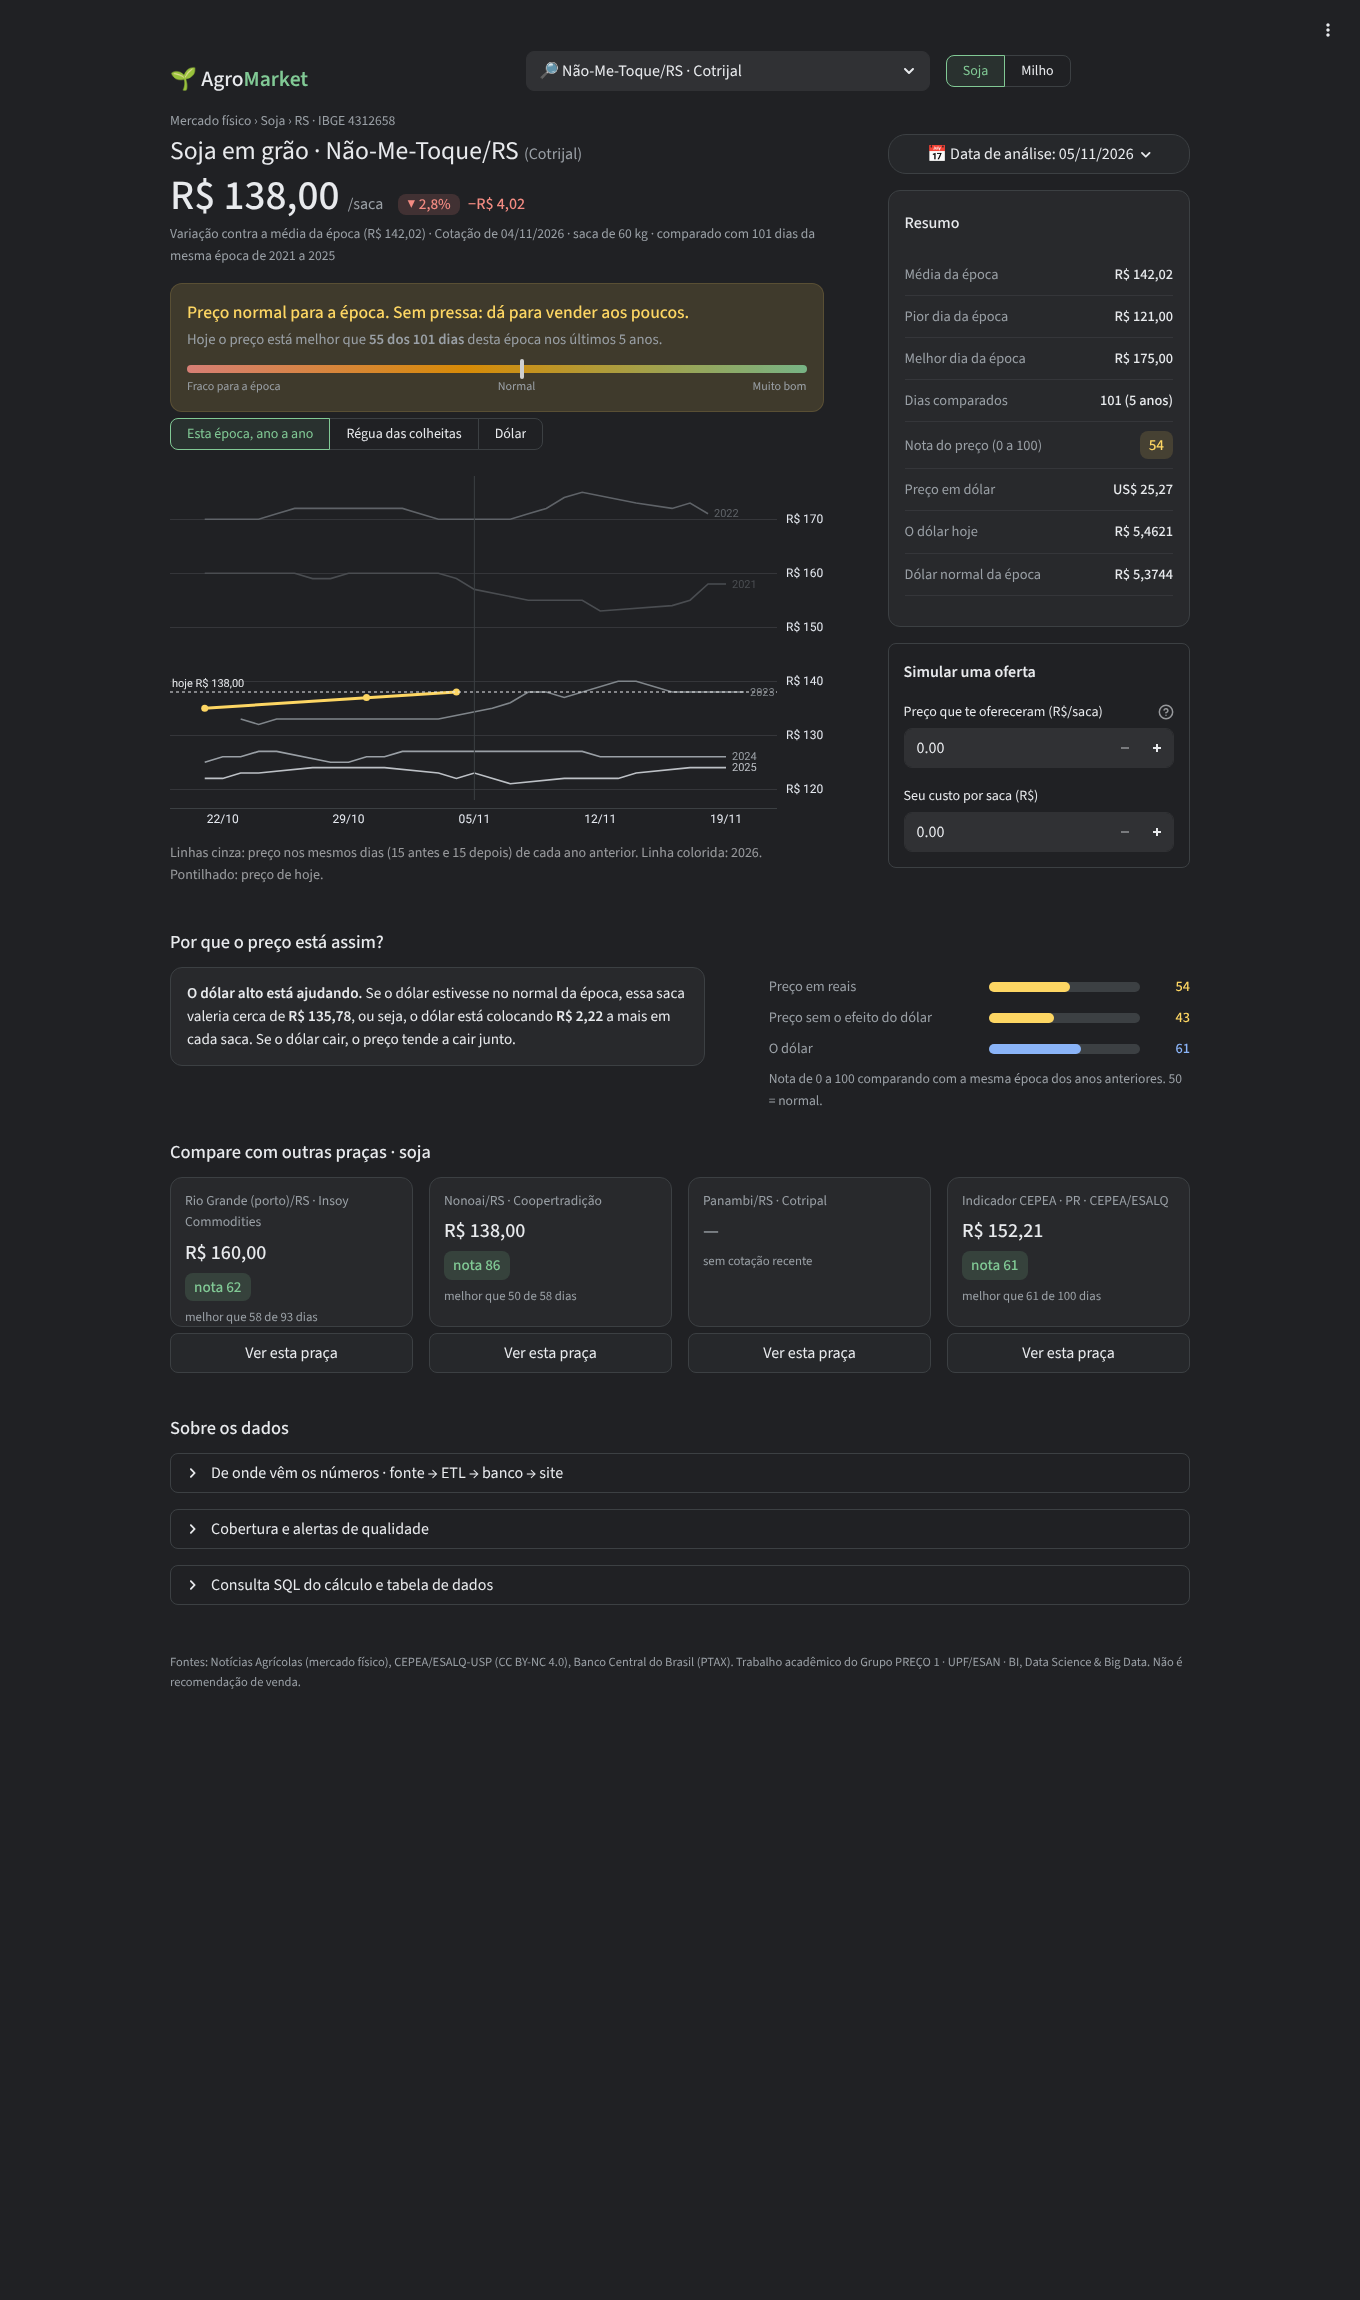
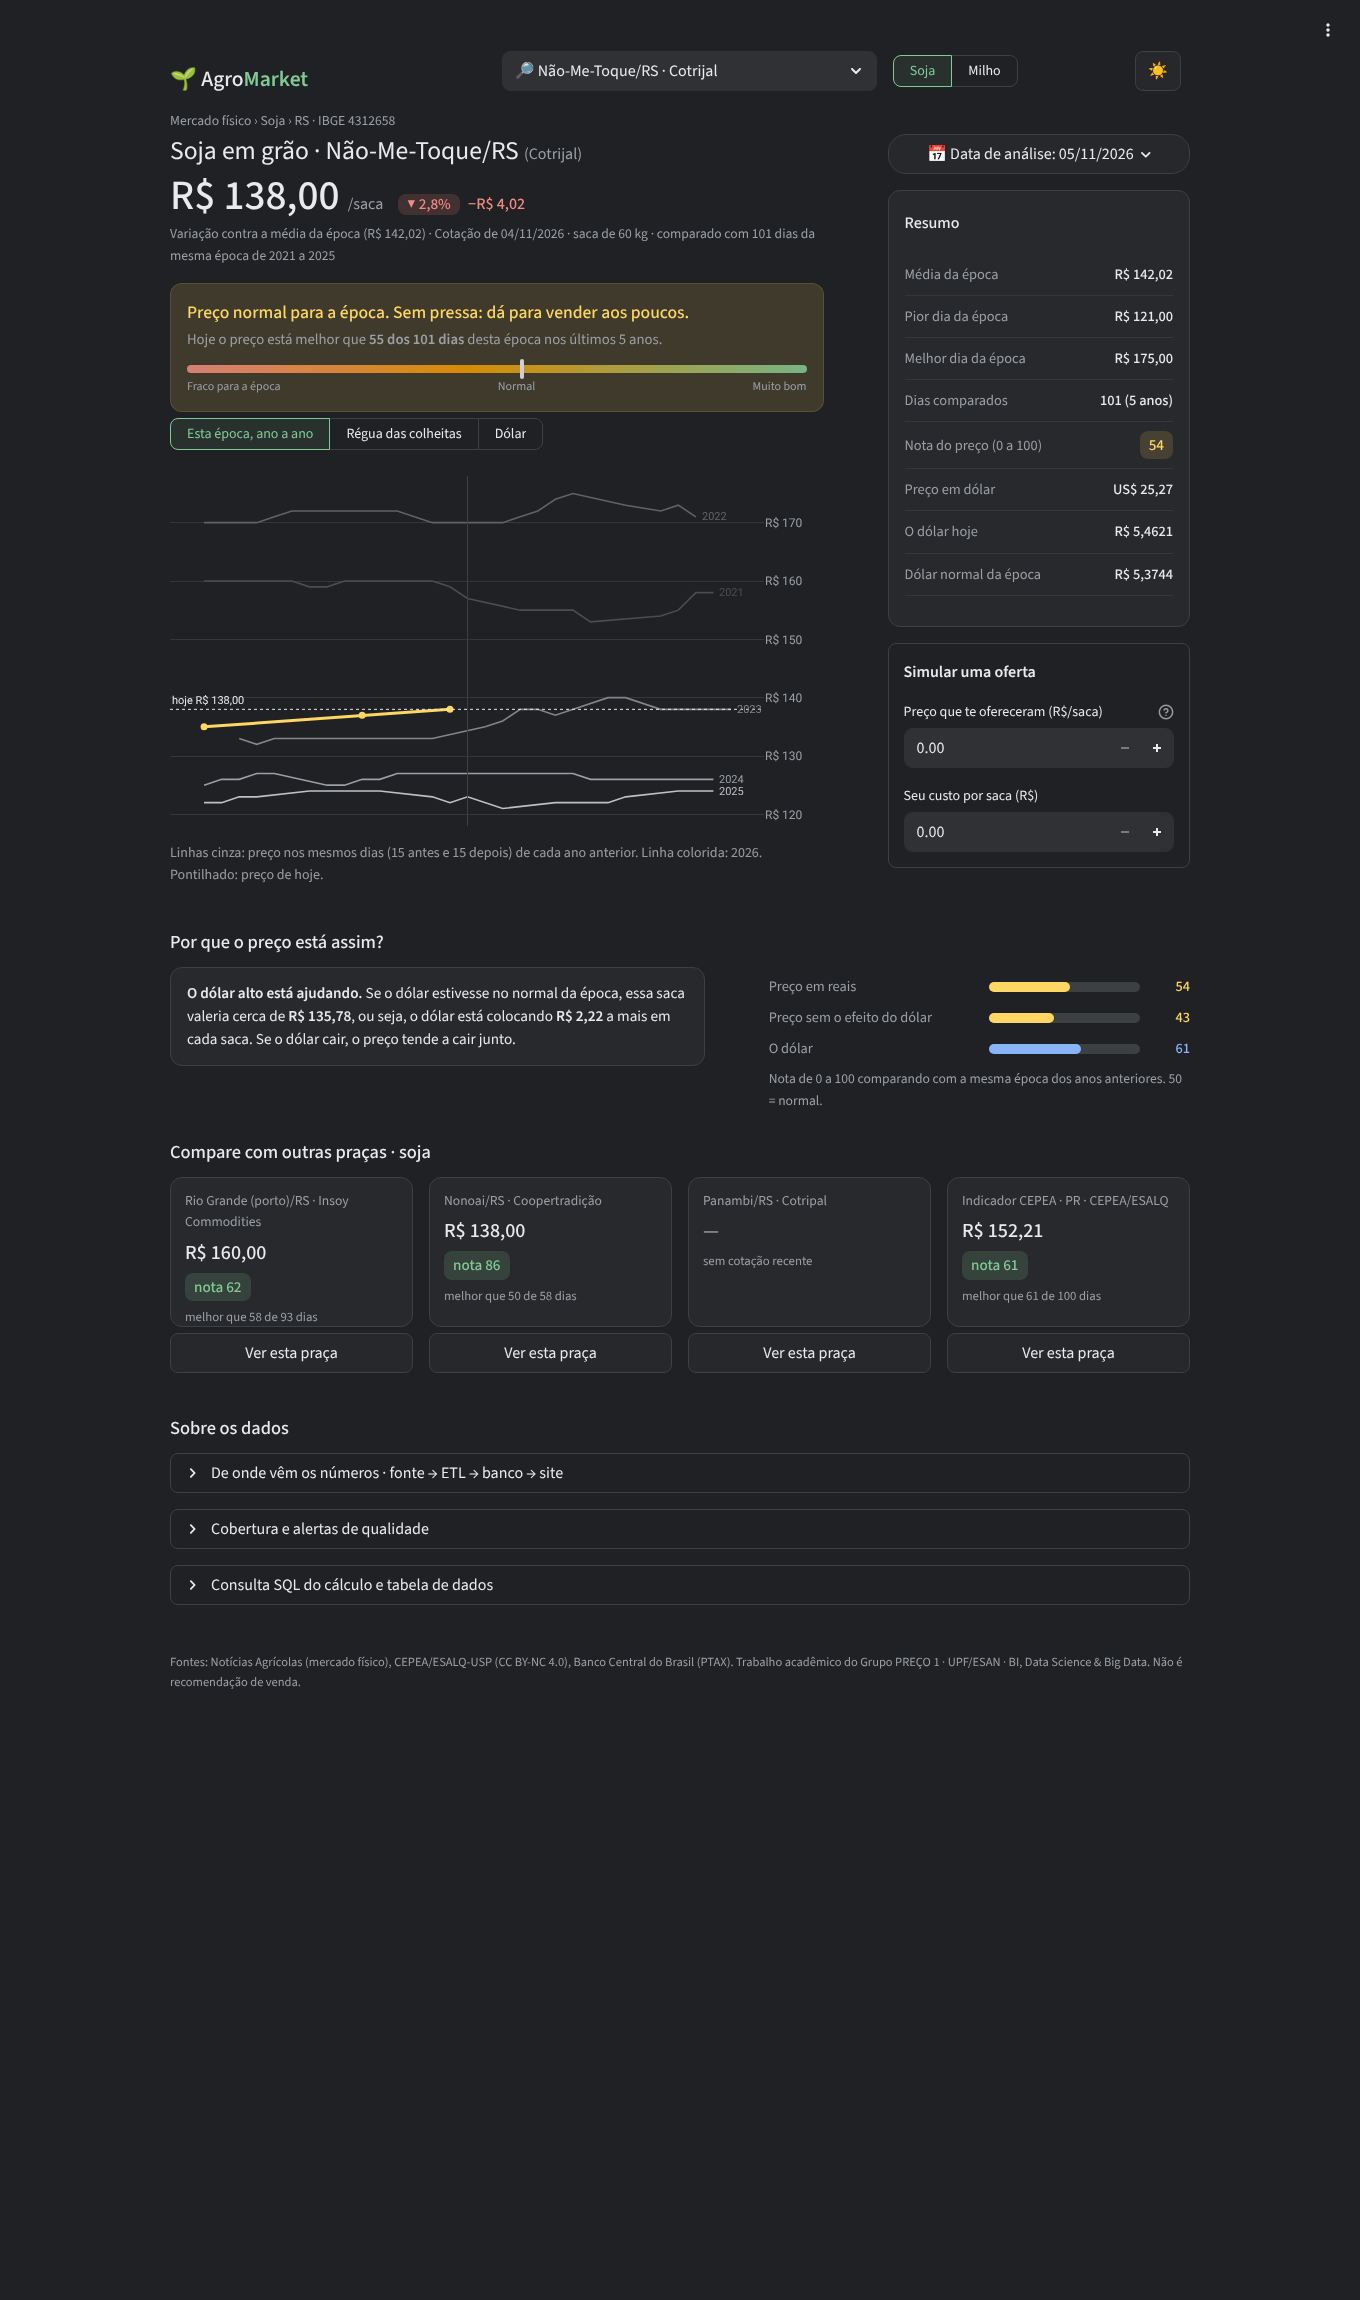
Site: escuro por padrão e botão lua/sol para trocar o tema
Claude-Session: https://claude.ai/code/session_013at6r4BTrppT3YRwhKFp3Q

Changed region(s): [[0.1235, 0.2778, 0.4324, 0.3704], [0.4632, 0.3087, 0.5559, 0.3396], [0.5559, 0.247, 0.5868, 0.3087]]

diff --git a/app/app.py b/app/app.py
@@ -19,10 +19,10 @@ st.set_page_config(page_title="AgroMarket · Hoje é dia de vender?", page_icon=
                    initial_sidebar_state="collapsed")
 
 # ------------------------------------------------------------------ estilo
-try:
-    ESCURO = (st.context.theme.type == "dark")
-except Exception:
-    ESCURO = False
+# Botão lua/sol: começa escuro; ?tema=claro no link abre claro
+if "escuro" not in st.session_state:
+    st.session_state.escuro = st.query_params.get("tema", "escuro") != "claro"
+ESCURO = st.session_state.escuro
 if ESCURO:   # paleta escura (fundo grafite, cartões cinza, verde/vermelho suaves)
     TXT, CINZA, BORDA, FUNDO, CARTAO, GRADE, TRILHO = "#e8eaed", "#9aa0a6", "#3c4043", "#202124", "#28292c", "#35363a", "#3c4043"
     VERDE, VERDE_BG = "#81c995", "rgba(129,201,149,.16)"
@@ -81,6 +81,27 @@ header[data-testid="stHeader"] {{ background: transparent; }}
 div[data-testid="stPopover"] button {{ border-radius: 18px; }}
 </style>""", unsafe_allow_html=True)
 
+if not ESCURO:
+    st.markdown(f"""<style>
+.stApp, [data-testid="stAppViewContainer"], [data-testid="stMain"] {{ background: {FUNDO} !important; color: {TXT}; }}
+.stApp [data-testid="stMarkdownContainer"], .stApp label, .stApp label p, [data-testid="stWidgetLabel"] p,
+[data-testid="stCaptionContainer"], [data-testid="stExpander"] summary, [data-testid="stExpander"] summary p {{ color: {TXT} !important; }}
+[data-testid="stCaptionContainer"] {{ color: {CINZA} !important; }}
+[data-baseweb="select"] > div, [data-baseweb="input"], [data-baseweb="input"] > div, .stNumberInput input,
+.stDateInput input, [data-baseweb="base-input"] {{ background: #f1f3f4 !important; color: {TXT} !important; border-color: #f1f3f4 !important; }}
+[data-baseweb="select"] svg, .stNumberInput button {{ color: {TXT} !important; fill: {TXT} !important; }}
+.stNumberInput button {{ background: #f1f3f4 !important; }}
+.stButton button, [data-testid="stPopover"] button, [data-testid="stBaseButton-segmented_control"],
+[data-testid="stBaseButton-secondary"], [data-testid="stBaseButton-tertiary"] {{ background: {CARTAO} !important; color: {TXT} !important; border-color: {BORDA} !important; }}
+[data-testid="stBaseButton-segmented_controlActive"] {{ background: {VERDE_BG} !important; color: {VERDE} !important; border-color: {VERDE} !important; }}
+[data-testid="stExpander"] details, [data-testid="stVerticalBlockBorderWrapper"] {{ border-color: {BORDA} !important; background: {CARTAO}; }}
+[data-baseweb="popover"] *, [data-baseweb="menu"] {{ background-color: {CARTAO}; color: {TXT}; }}
+pre, code {{ background: #f1f3f4 !important; color: {TXT} !important; }}
+[data-testid="stExpander"] summary {{ background: transparent !important; }}
+[data-testid="stNumberInputContainer"], [data-testid="stNumberInput"] > div > div {{ border-color: #f1f3f4 !important; }}
+[data-testid="stAlert"] {{ color: {TXT}; }}
+</style>""", unsafe_allow_html=True)
+
 if not DB.exists():
     st.error("Banco não encontrado. Rode antes: `python rodar_etl.py`")
     st.stop()
@@ -136,7 +157,9 @@ def nome_praca(row):
 
 
 # ------------------------------------------------------------------ topo
-t1, t2, t3 = st.columns([2.2, 2.6, 1.6], vertical_alignment="center")
+t1, t2, t3, t4 = st.columns([2.2, 2.6, 1.6, .45], vertical_alignment="center")
+t4.button("☀" if ESCURO else "🌙", key="tema_btn", help="Modo claro" if ESCURO else "Modo escuro",
+          on_click=lambda: st.session_state.update(escuro=not st.session_state.escuro))
 t1.markdown('<div class="marca">🌱 Agro<b>Market</b></div>', unsafe_allow_html=True)
 produto = t3.segmented_control("Produto", ["soja", "milho"], default="soja", format_func=str.capitalize,
                                label_visibility="collapsed") or "soja"
@@ -196,7 +219,7 @@ with esq:
 
     vista = st.segmented_control("Gráfico", ["Esta época, ano a ano", "Régua das colheitas", "Dólar"],
                                  default="Esta época, ano a ano", label_visibility="collapsed") or "Esta época, ano a ano"
-    layout = dict(height=360, margin=dict(l=0, r=10, t=10, b=0), plot_bgcolor="rgba(0,0,0,0)", paper_bgcolor="rgba(0,0,0,0)", separators=",.",
+    layout = dict(height=360, margin=dict(l=0, r=60, t=10, b=30), plot_bgcolor="rgba(0,0,0,0)", paper_bgcolor="rgba(0,0,0,0)", separators=",.",
                   font=dict(family="Roboto", color=CINZA, size=12), hovermode="x unified", showlegend=False,
                   hoverlabel=dict(bgcolor=CARTAO, font_color=TXT, bordercolor=BORDA),
                   yaxis=dict(gridcolor=GRADE, zeroline=False, side="right", tickprefix="R$ "),
@@ -225,7 +248,7 @@ with esq:
         x_hoje = pd.Timestamp("2000-" + hoje[5:])
         fig.add_vline(x=x_hoje, line_color=BORDA, line_width=1)
         fig.update_layout(**layout)
-        st.plotly_chart(fig, use_container_width=True, config={"displayModeBar": False})
+        st.plotly_chart(fig, use_container_width=True, theme=None, config={"displayModeBar": False})
         st.caption(f"Linhas cinza: preço nos mesmos dias ({JANELA_DIAS} antes e {JANELA_DIAS} depois) de cada ano anterior. "
                    f"Linha colorida: {hoje[:4]}. Pontilhado: preço de hoje.")
 
@@ -242,11 +265,11 @@ with esq:
         fig.add_vline(x=r["preco"], line_width=2, line_color=TXT,
                       annotation_text=f"hoje R$ {br(r['preco'])}", annotation_position="top")
         lo, hi = min(r["minimo"], r["preco"]), max(r["maximo"], r["preco"])
-        lay = {**layout, "hovermode": "closest", "margin": dict(l=0, r=10, t=30, b=0)}
+        lay = {**layout, "hovermode": "closest", "margin": dict(l=50, r=10, t=30, b=30)}
         lay["xaxis"] = dict(showgrid=True, gridcolor=GRADE, tickprefix="R$ ", range=[lo - (hi - lo) * .06, hi + (hi - lo) * .4])
         lay["yaxis"] = dict(showgrid=False, autorange="reversed")
         fig.update_layout(**lay)
-        st.plotly_chart(fig, use_container_width=True, config={"displayModeBar": False})
+        st.plotly_chart(fig, use_container_width=True, theme=None, config={"displayModeBar": False})
         st.caption("Cada barra vai do pior ao melhor preço da época naquele ano. Verde: hoje é melhor que todos os dias daquele ano; "
                    "vermelho: hoje é pior que todos.")
 
@@ -266,7 +289,7 @@ with esq:
         lay = {**layout}
         lay["yaxis"] = dict(gridcolor=GRADE, side="right", tickprefix="R$ ", range=[ptax.ptax_venda.min() - .1, ptax.ptax_venda.max() + .1])
         fig.update_layout(**lay)
-        st.plotly_chart(fig, use_container_width=True, config={"displayModeBar": False})
+        st.plotly_chart(fig, use_container_width=True, theme=None, config={"displayModeBar": False})
         st.caption("Dólar oficial do Banco Central (PTAX de venda) nos mesmos dias de cada ano. Azul: ano atual.")
 
 # ------------------------------------------------------------------ coluna direita

diff --git a/README.md b/README.md
@@ -54,7 +54,7 @@ Visual de painel financeiro, em uma página só:
 - **Compare com outras praças**, com botão para trocar de praça
 - **Sobre os dados**: arquitetura, fontes e licenças, cobertura, alertas de qualidade, consulta SQL e download da tabela
 
-Modo claro e escuro: segue o tema do celular ou computador; para trocar, menu ⋮ > Settings > Theme.
+Modo escuro por padrão; o botão ☀/🌙 no canto superior direito troca para o claro (ou abra o link com ?tema=claro).
 
 Prints na pasta `prints/`.
 
